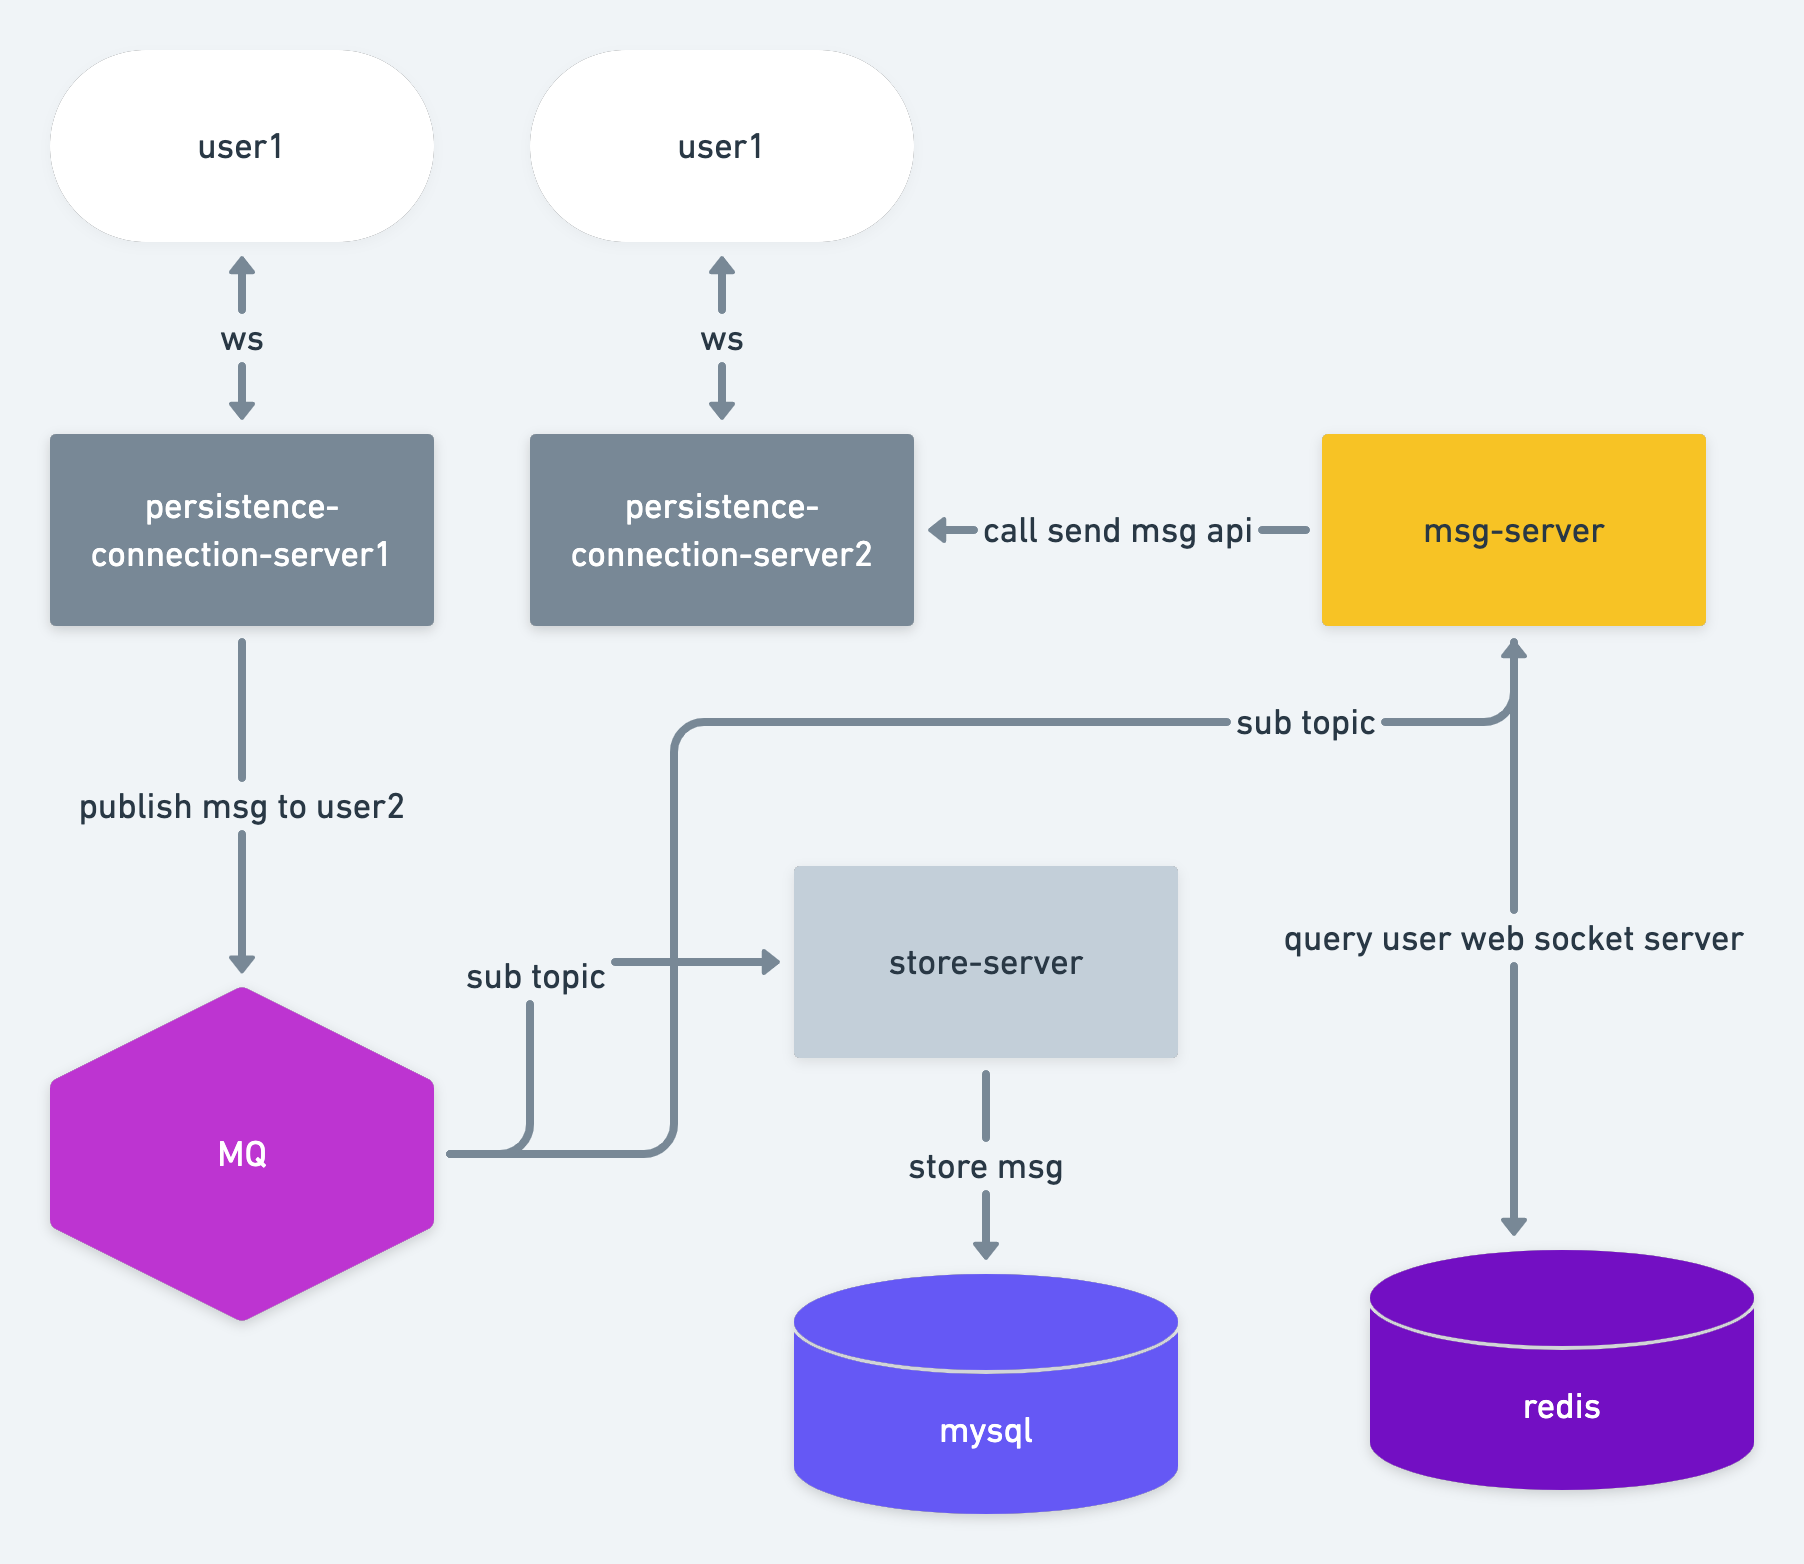
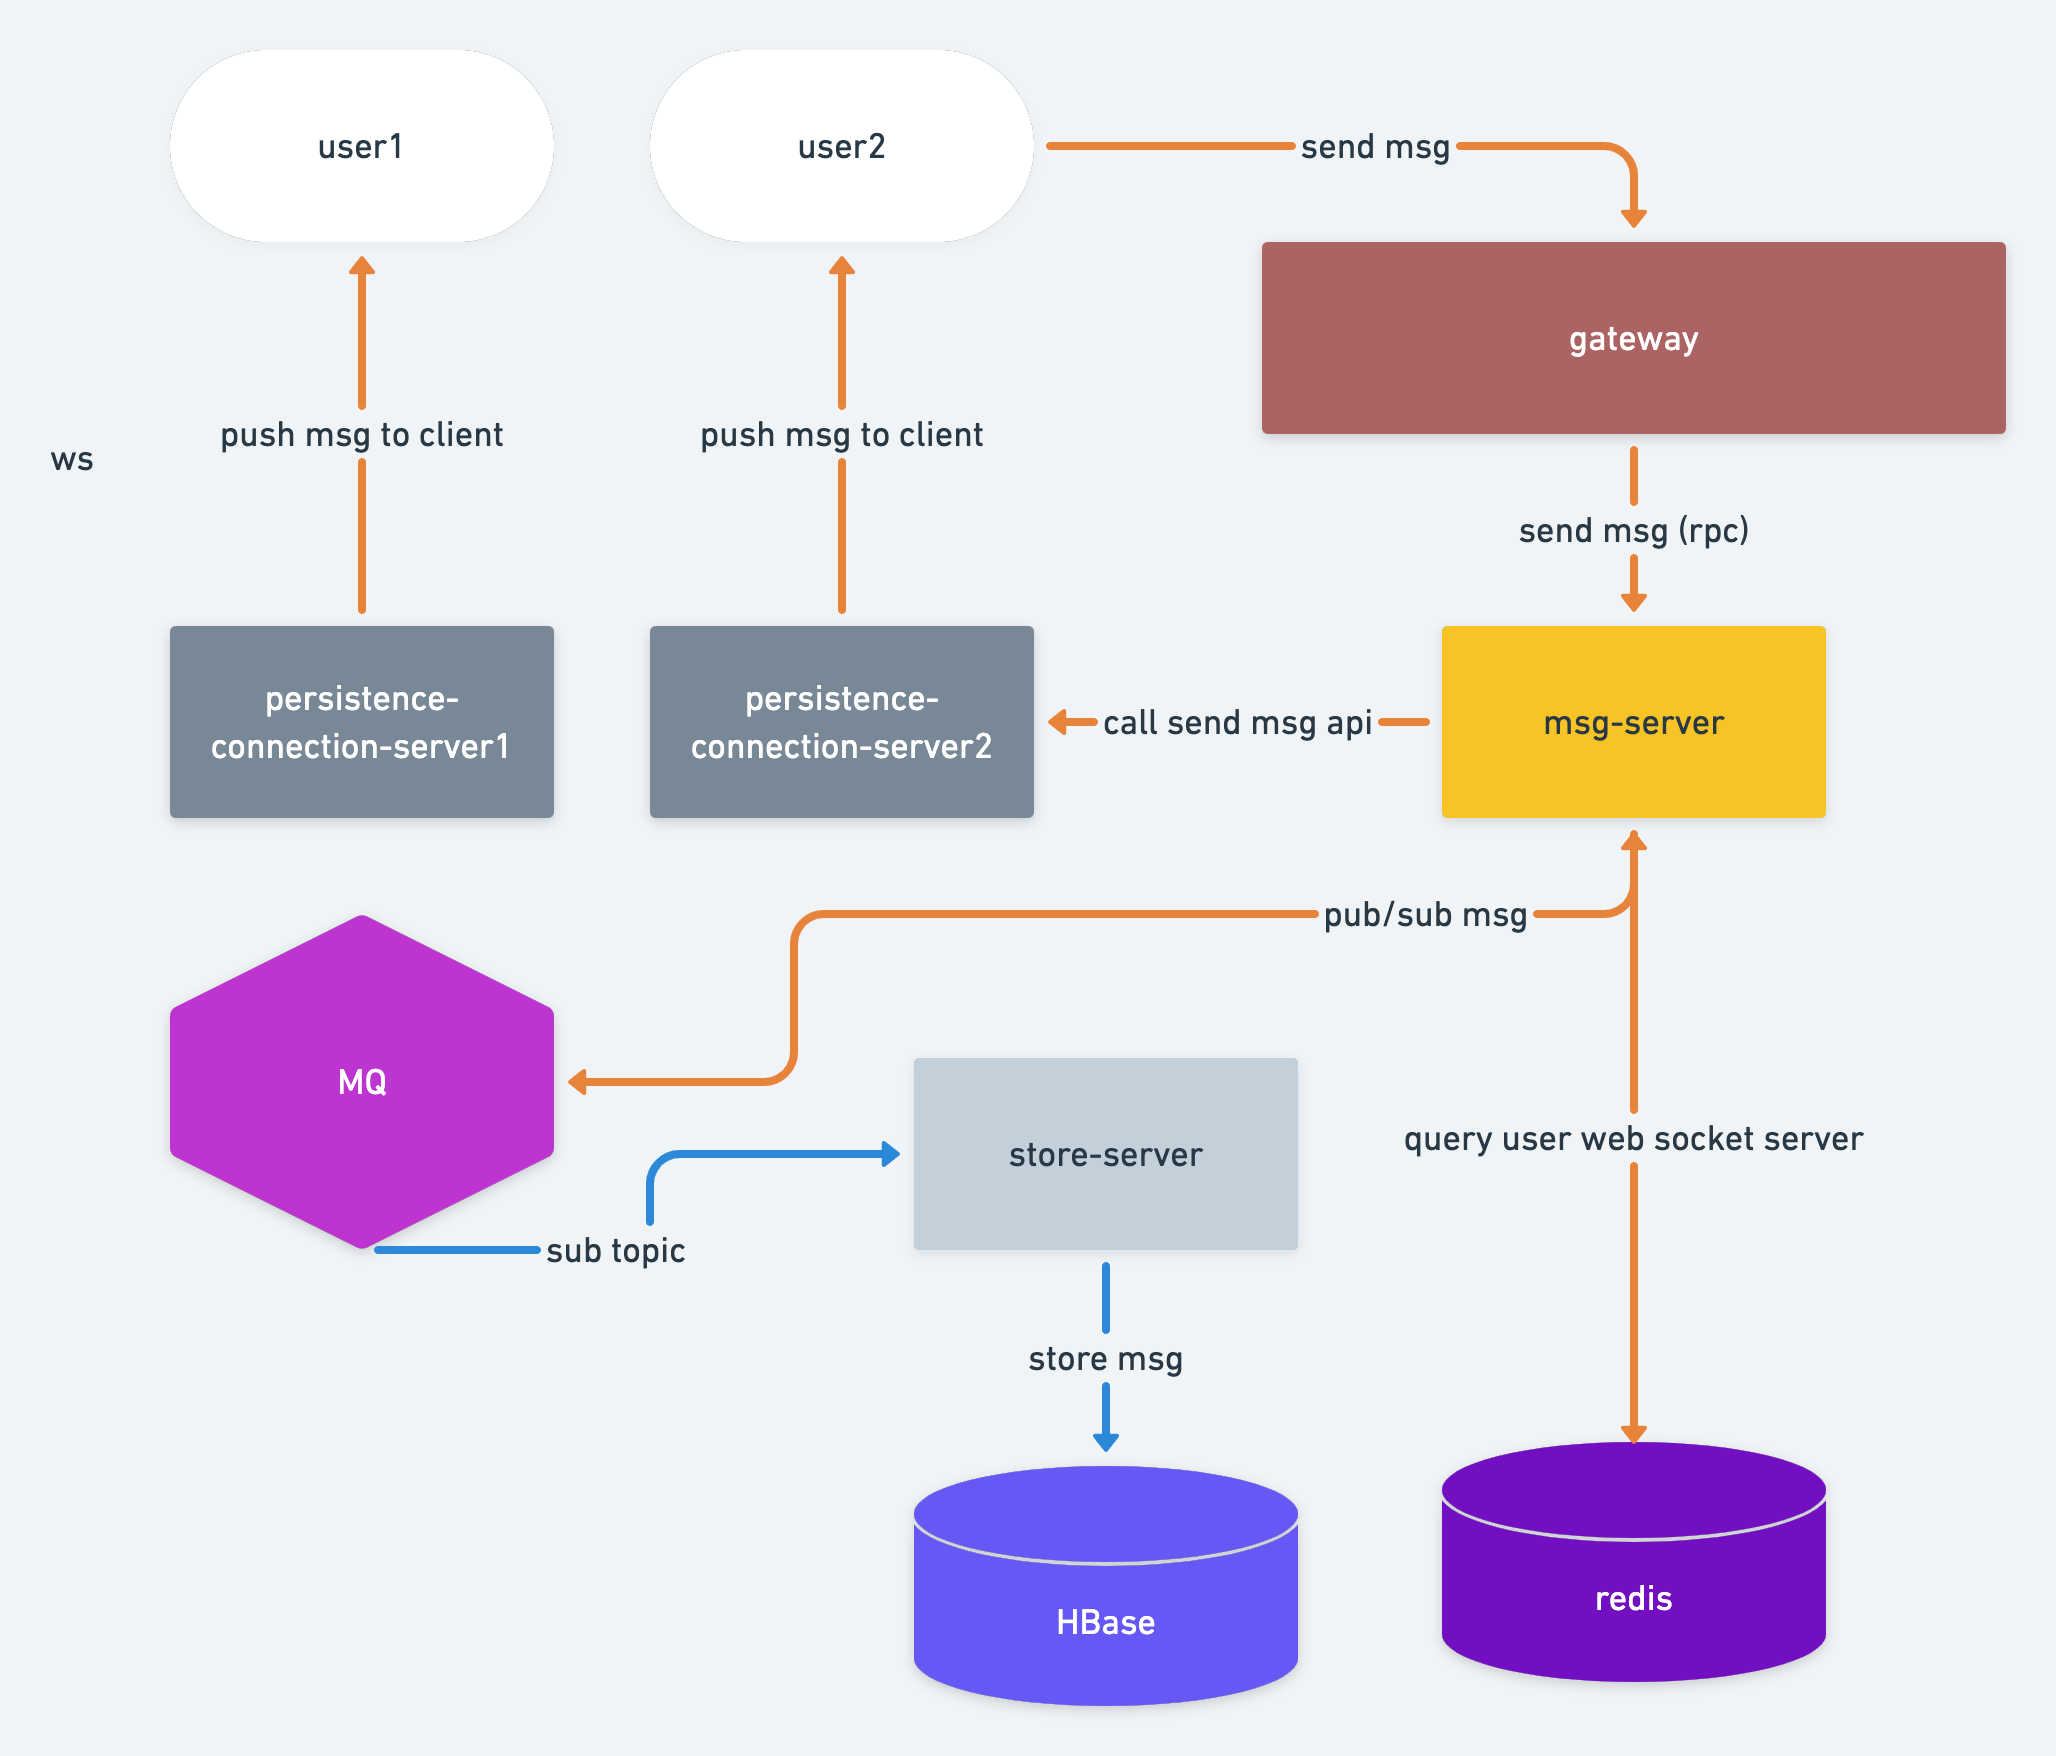
feat: design #1

diff --git a/README.md b/README.md
@@ -25,6 +25,8 @@ IM Server written by golang.
 
 - gateway 需要承受长连接带来的压力，需要更多的 gateway 来承受大量在线用户的情况
 
+![proxy](./static/conn_ws_gateway.png)
+
 ### httpdns 方案
 
 客户端先通过暴露的域名，去访问 httpdns 服务获取真正后端服务的 ip，然后通过 ip 直接进行长连接
@@ -38,7 +40,7 @@ IM Server written by golang.
 - 没有统一的鉴权入口，入口分散
 - 要求暴露后端服务 ip，安全性降低且比较浪费 ip 资源
 
-![ws](./static/conn_ws.png)
+![ws](./static/conn_ws_dns.png)
 
 ## send/rec msg
 
